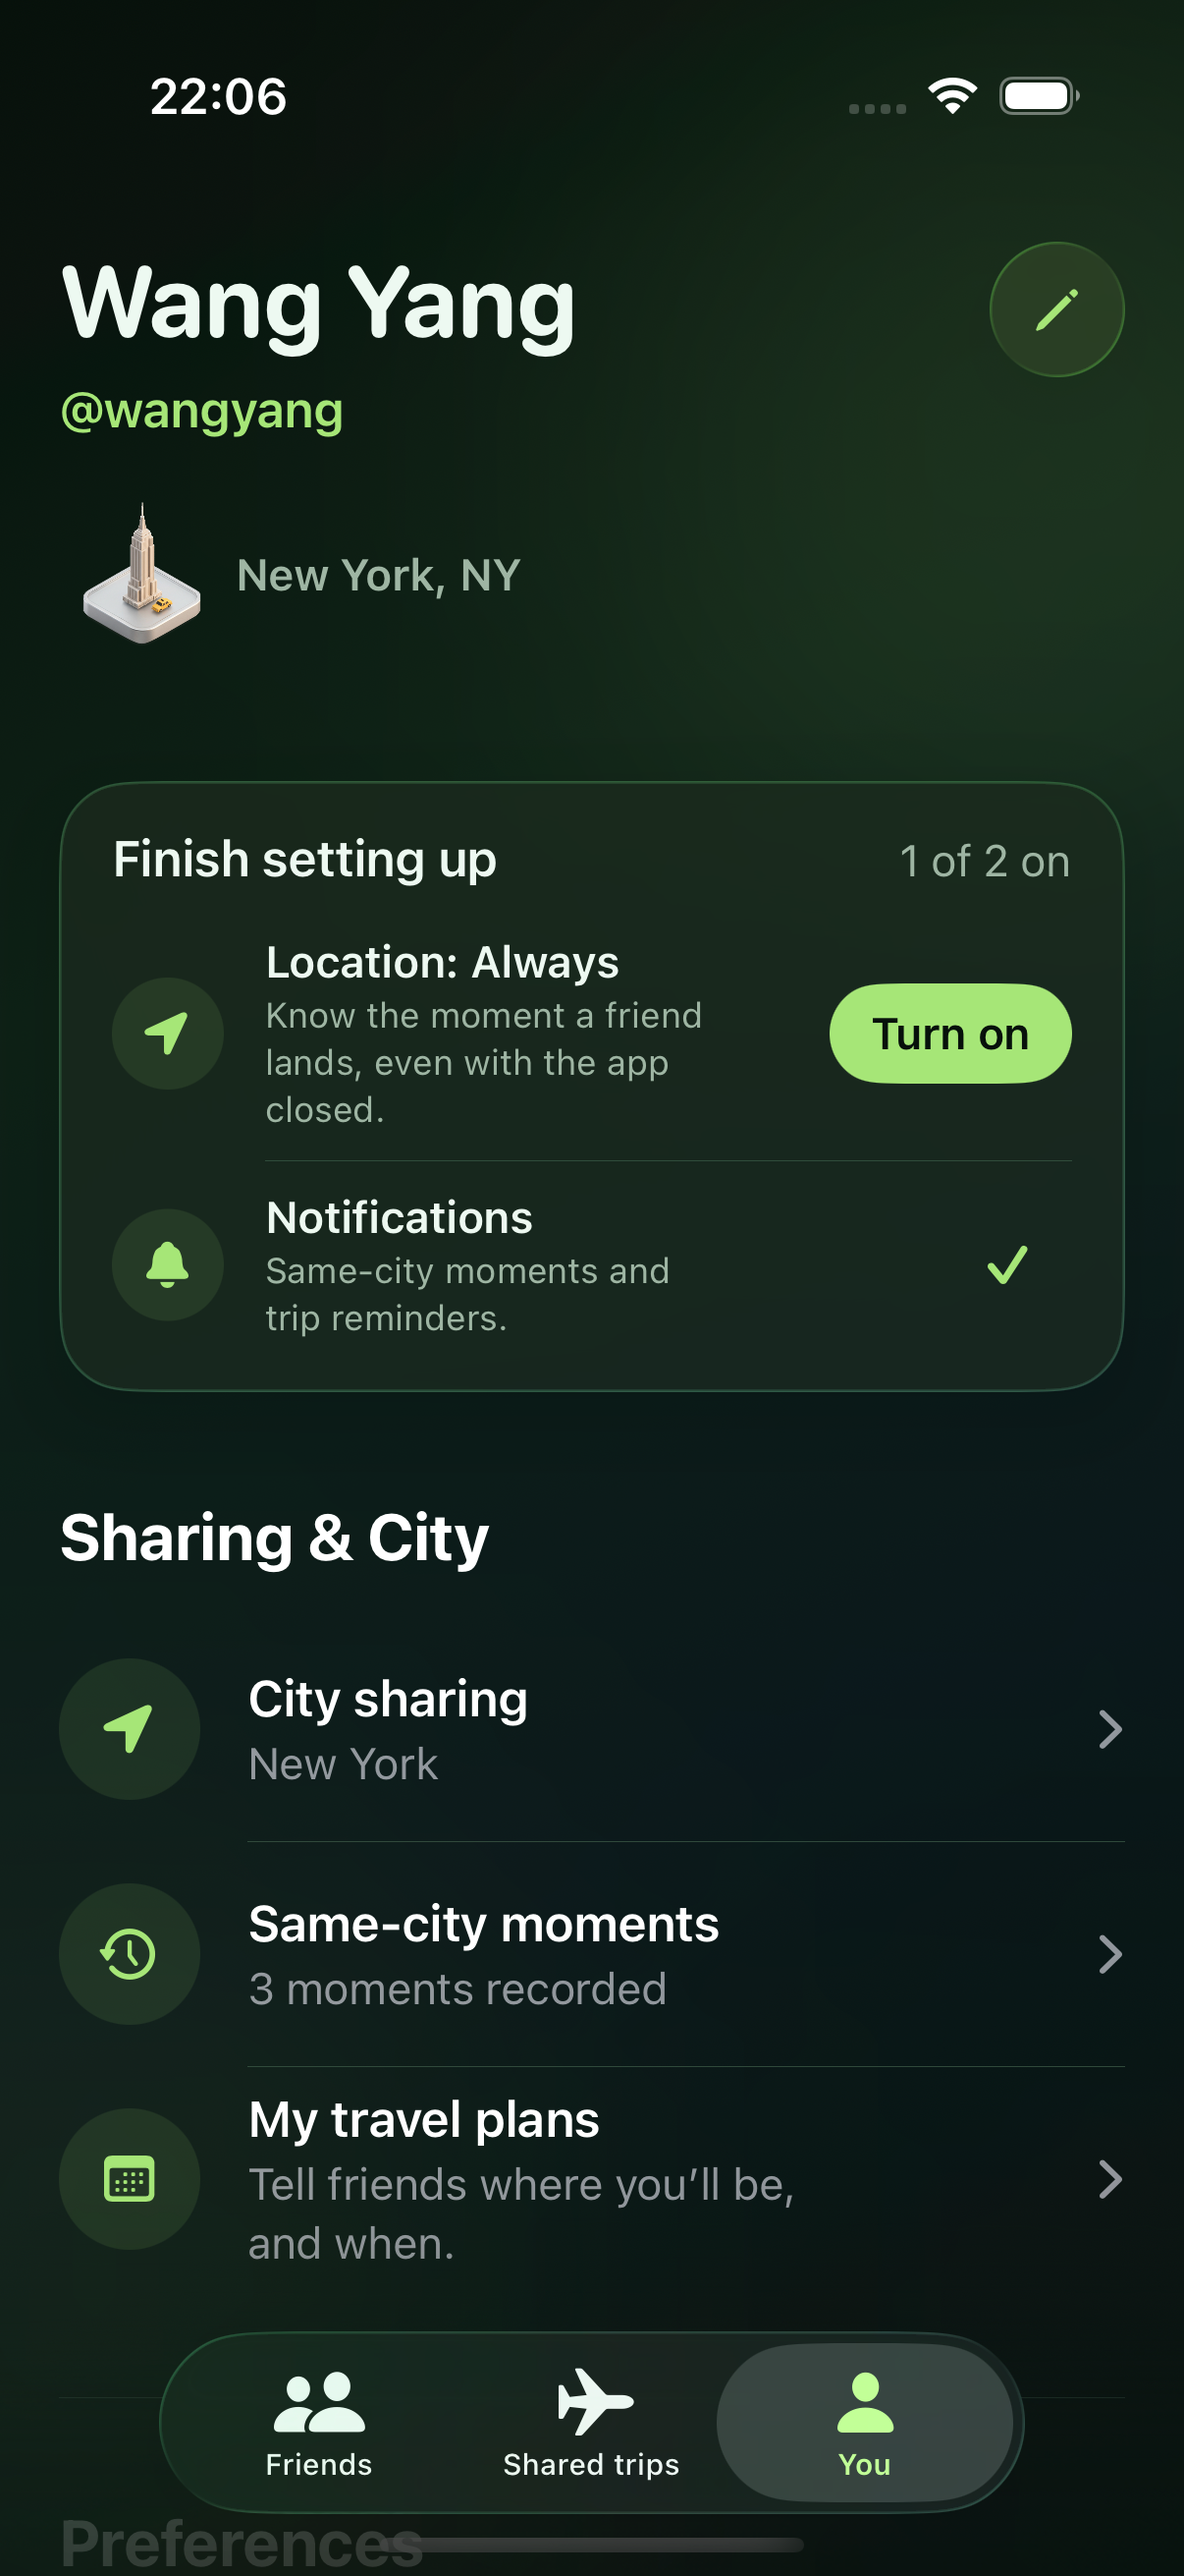
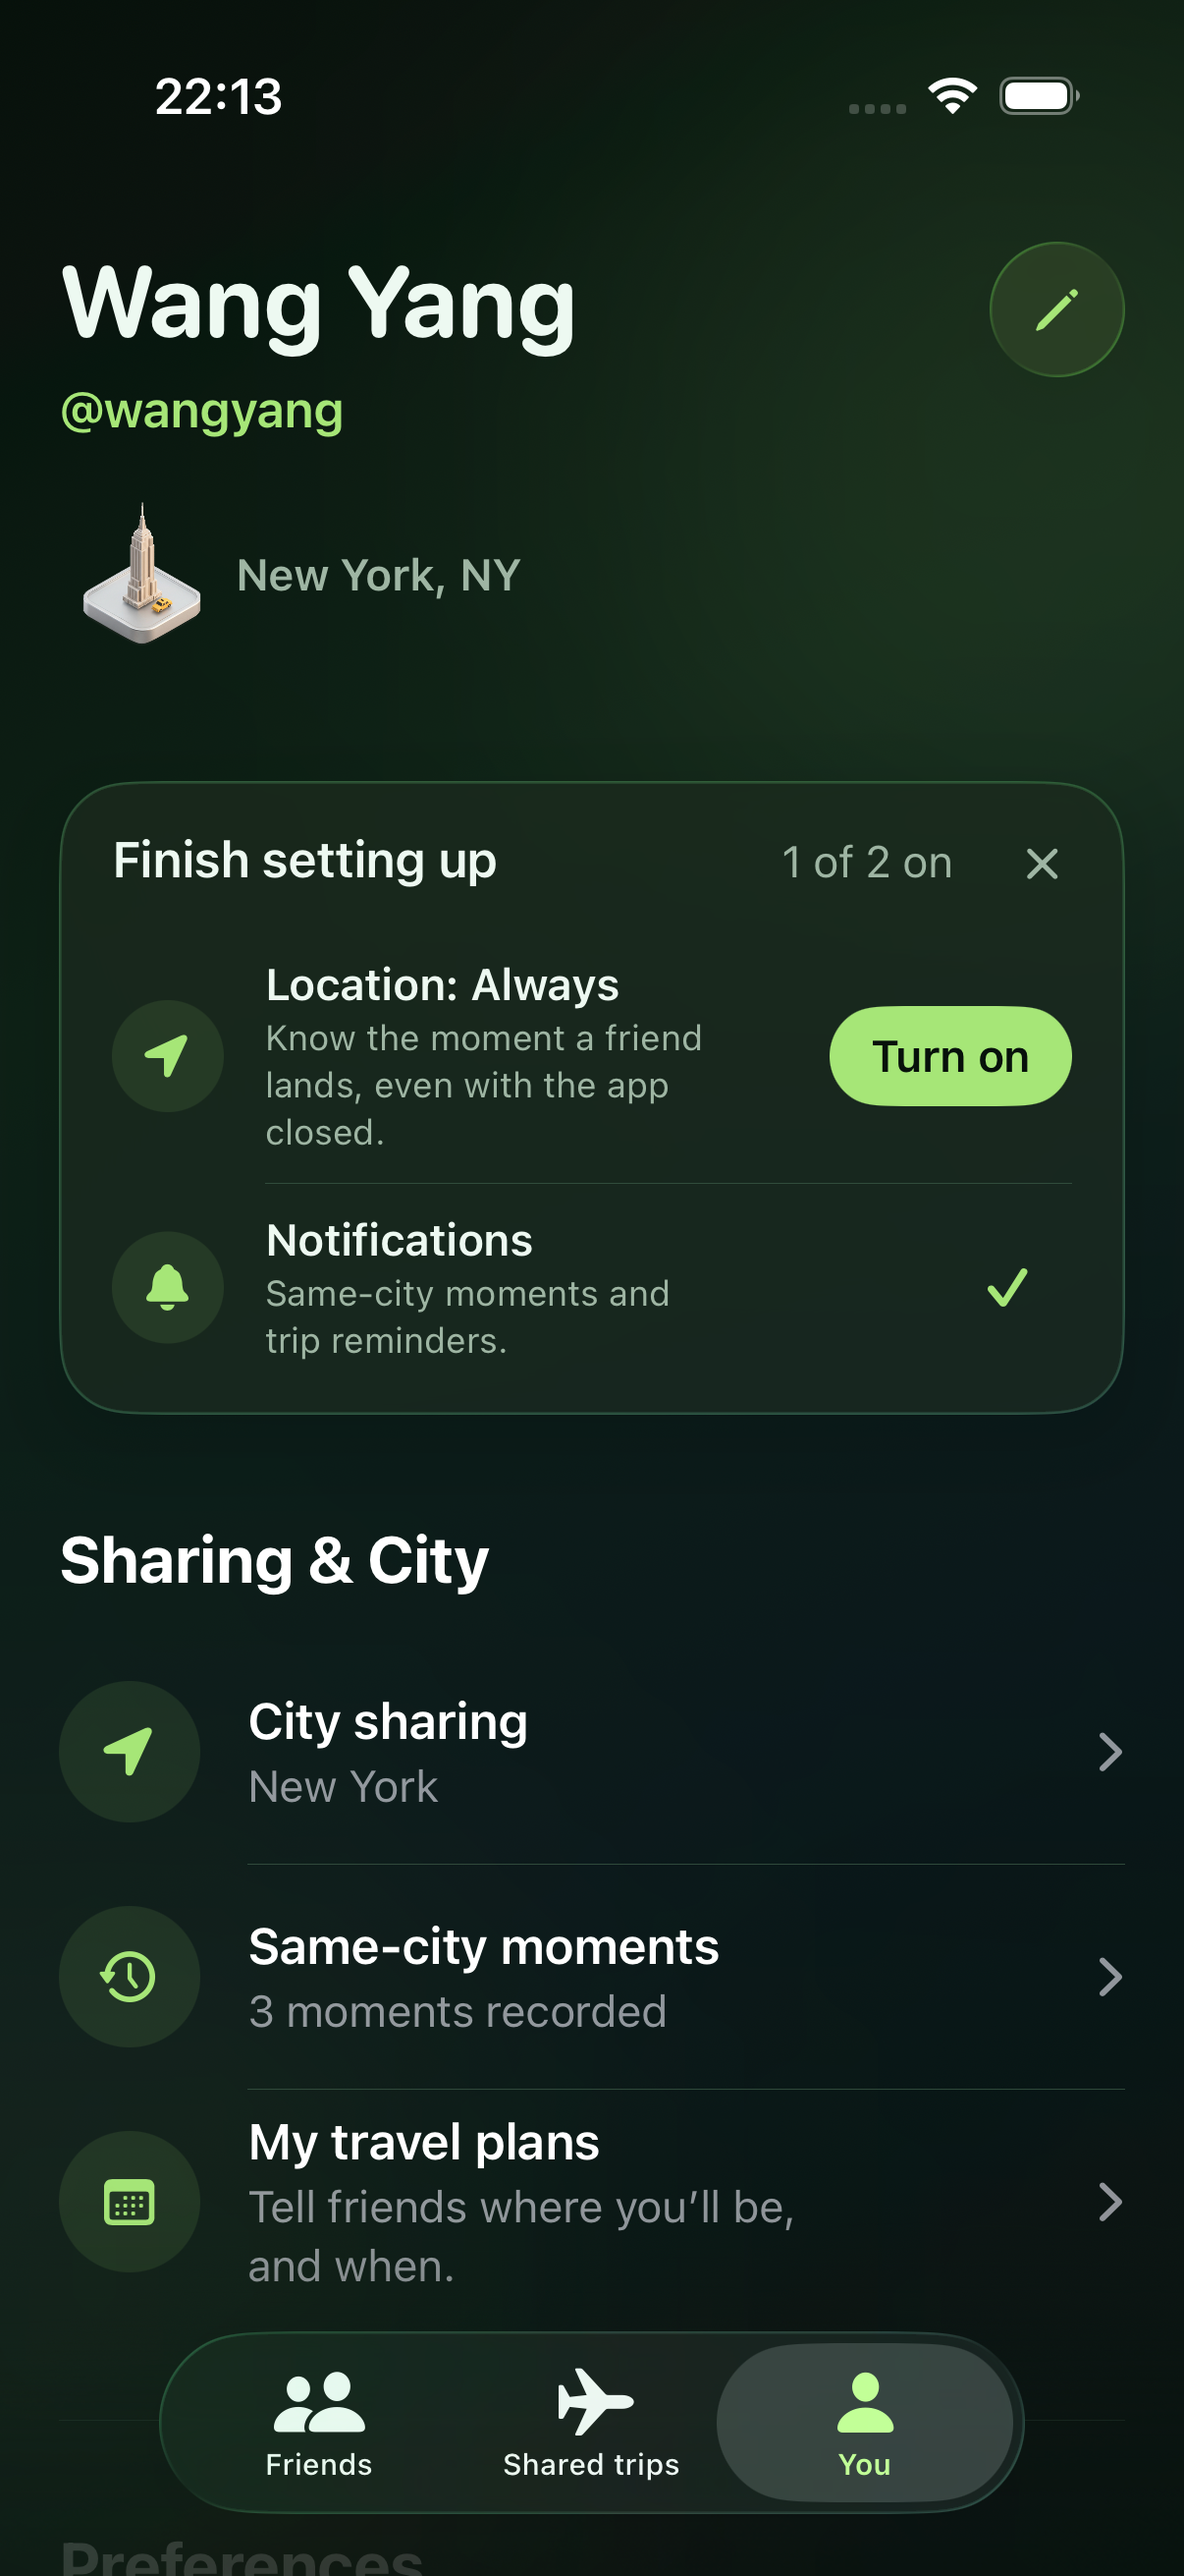
Let people close Finish setting up until tomorrow; drop the home copy change
Closing the checklist hides it for the rest of that calendar day, per
account. It comes back the next day until location and notifications are
both on. The home location reminder keeps its original copy.

diff --git a/WhereIsMyFriend/Features/Profile/ProfileView.swift b/WhereIsMyFriend/Features/Profile/ProfileView.swift
@@ -386,13 +386,17 @@ struct ProfileView: View {
     }
 }
 
-/// Everything Across Us needs from iOS, in one place. It stays until every item is on,
-/// so a dismissed home reminder never leaves someone without a way back.
+/// Everything Across Us needs from iOS, in one place. It returns each day until every
+/// item is on, so a dismissed home reminder never leaves someone without a way back.
 private struct SetupChecklistCard: View {
     @EnvironmentObject private var store: AppStore
     @EnvironmentObject private var locationService: CityLocationService
     @ObservedObject var notificationService: LocalNotificationService
     @Environment(\.openURL) private var openURL
+    @Environment(\.scenePhase) private var scenePhase
+    /// Re-read on appear and on return to the app, so a closed card comes back the next day.
+    @State private var isHiddenToday = false
+    private let dismissal = SetupChecklistDismissal()
 
     private struct Item: Identifiable {
         let id: String
@@ -405,15 +409,25 @@ private struct SetupChecklistCard: View {
     }
 
     var body: some View {
-        if store.snapshot.isAuthenticated, items.contains(where: { !$0.isDone }) {
+        Group {
+        if store.snapshot.isAuthenticated, !isHiddenToday, items.contains(where: { !$0.isDone }) {
             VStack(alignment: .leading, spacing: 0) {
                 HStack(alignment: .firstTextBaseline) {
                     Text("Finish setting up").font(.headline).foregroundStyle(WIFTheme.primaryText)
                     Spacer()
                     Text("\(items.filter(\.isDone).count) of \(items.count) on")
                         .font(.subheadline).foregroundStyle(WIFTheme.secondaryText)
+                    Button(action: hideForToday) {
+                        Image(systemName: "xmark")
+                            .font(.footnote.weight(.semibold)).foregroundStyle(WIFTheme.secondaryText)
+                            .frame(width: 44, height: 44).contentShape(Rectangle())
+                    }
+                    .buttonStyle(.plain)
+                    .padding(.trailing, -12)
+                    .accessibilityLabel("Hide until tomorrow")
+                    .accessibilityIdentifier("setupChecklistClose")
                 }
-                .padding(.bottom, 6)
+                .padding(.top, -10)
                 ForEach(Array(items.enumerated()), id: \.element.id) { index, item in
                     if index > 0 { Divider().overlay(WIFTheme.border).padding(.leading, 52) }
                     row(item)
@@ -425,7 +439,20 @@ private struct SetupChecklistCard: View {
             .padding(.bottom, 36)
             .accessibilityElement(children: .contain)
             .accessibilityIdentifier("setupChecklist")
+            .transition(.opacity)
         }
+        }
+        .onAppear(perform: refreshVisibility)
+        .onChange(of: scenePhase) { _, phase in if phase == .active { refreshVisibility() } }
+    }
+
+    private func refreshVisibility() {
+        isHiddenToday = dismissal.isHidden(for: store.snapshot.currentUser.id)
+    }
+
+    private func hideForToday() {
+        dismissal.dismiss(for: store.snapshot.currentUser.id)
+        withAnimation(.easeOut(duration: 0.2)) { isHiddenToday = true }
     }
 
     private func row(_ item: Item) -> some View {

diff --git a/WhereIsMyFriend/Features/Friends/FriendsView.swift b/WhereIsMyFriend/Features/Friends/FriendsView.swift
@@ -248,9 +248,11 @@ struct FriendsView: View {
 
     private var locationReminderCard: some View {
         VStack(alignment: .leading, spacing: 12) {
-            Text(locationReminderTitle)
+            Text("Keep your city up to date")
                 .font(.headline).foregroundStyle(WIFTheme.primaryText)
-            Text(locationReminderDetail)
+            Text(locationService.authorizationStatus == .authorizedWhenInUse
+                 ? "Choose Always to spot same-city friends while the app is closed."
+                 : "Turn on location to spot friends in the same city.")
                 .font(.subheadline).foregroundStyle(WIFTheme.secondaryText)
                 .fixedSize(horizontal: false, vertical: true)
             if dynamicTypeSize.isAccessibilitySize {
@@ -265,24 +267,6 @@ struct FriendsView: View {
                            in: RoundedRectangle(cornerRadius: WIFTheme.largeRadius))
         .accessibilityElement(children: .contain)
         .accessibilityIdentifier("locationReminderCard")
-    }
-
-    /// A friend in your city right now is the clearest reason to choose Always.
-    /// The capsule above already names them, so the card only says what Always adds.
-    private var locationReminderTitle: String {
-        if locationService.authorizationStatus == .authorizedWhenInUse, !sameCityFriends.isEmpty {
-            return String(localized: "Next time, hear it right away")
-        }
-        return String(localized: "Keep your city up to date")
-    }
-
-    private var locationReminderDetail: String {
-        if locationService.authorizationStatus == .authorizedWhenInUse {
-            return sameCityFriends.isEmpty
-                ? String(localized: "Choose Always to spot same-city friends while the app is closed.")
-                : String(localized: "Choose Always and Across Us tells you the moment a friend lands in your city, even with the app closed.")
-        }
-        return String(localized: "Turn on location to spot friends in the same city.")
     }
 
     @ViewBuilder

diff --git a/WhereIsMyFriendTests/FriendPresenceTests.swift b/WhereIsMyFriendTests/FriendPresenceTests.swift
@@ -3955,3 +3955,23 @@ final class ServerDateDecodingTests: XCTestCase {
         XCTAssertEqual(snapshot.lastSyncedAt?.timeIntervalSince1970 ?? 0, 1_792_193_669.852, accuracy: 0.01)
     }
 }
+
+final class SetupChecklistDismissalTests: XCTestCase {
+    func testClosingHidesTheChecklistForTheRestOfTheDayOnly() throws {
+        let suite = "setup-checklist-tests-\(UUID().uuidString)"
+        let defaults = try XCTUnwrap(UserDefaults(suiteName: suite))
+        defer { defaults.removePersistentDomain(forName: suite) }
+        var calendar = Calendar(identifier: .gregorian)
+        calendar.timeZone = try XCTUnwrap(TimeZone(identifier: "America/Los_Angeles"))
+        let dismissal = SetupChecklistDismissal(defaults: defaults, calendar: calendar)
+        let owner = UUID(), other = UUID()
+        let morning = try XCTUnwrap(calendar.date(from: DateComponents(year: 2026, month: 10, day: 17, hour: 9)))
+
+        XCTAssertFalse(dismissal.isHidden(for: owner, at: morning))
+        dismissal.dismiss(for: owner, at: morning)
+        XCTAssertTrue(dismissal.isHidden(for: owner, at: morning.addingTimeInterval(14 * 3600)), "Still hidden at 11 PM")
+        XCTAssertFalse(dismissal.isHidden(for: owner, at: morning.addingTimeInterval(15 * 3600 + 60)), "Back after midnight")
+        XCTAssertFalse(dismissal.isHidden(for: other, at: morning), "Another account on this phone still sees it")
+    }
+}
+

diff --git a/WhereIsMyFriend/Core/PlatformServices.swift b/WhereIsMyFriend/Core/PlatformServices.swift
@@ -64,6 +64,29 @@ struct LocationPermissionReminderState: Codable, Equatable {
     }
 }
 
+/// The You tab's "Finish setting up" card. Closing it hides it for the rest of that
+/// calendar day; it comes back the next day until every item is on.
+struct SetupChecklistDismissal {
+    private let defaults: UserDefaults
+    private let calendar: Calendar
+
+    init(defaults: UserDefaults = .standard, calendar: Calendar = .current) {
+        self.defaults = defaults
+        self.calendar = calendar
+    }
+
+    func isHidden(for ownerID: UUID, at now: Date = Date()) -> Bool {
+        guard let dismissedAt = defaults.object(forKey: key(for: ownerID)) as? Date else { return false }
+        return calendar.isDate(dismissedAt, inSameDayAs: now)
+    }
+
+    func dismiss(for ownerID: UUID, at now: Date = Date()) {
+        defaults.set(now, forKey: key(for: ownerID))
+    }
+
+    private func key(for ownerID: UUID) -> String { "setup-checklist.dismissed.v1.\(ownerID.uuidString)" }
+}
+
 enum LocationPermissionReminderPolicy {
     enum Action: Equatable { case requestPermission, openSettings, none }
 
